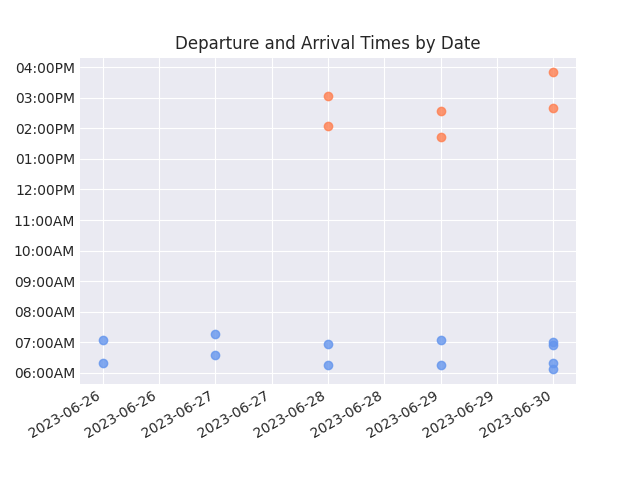
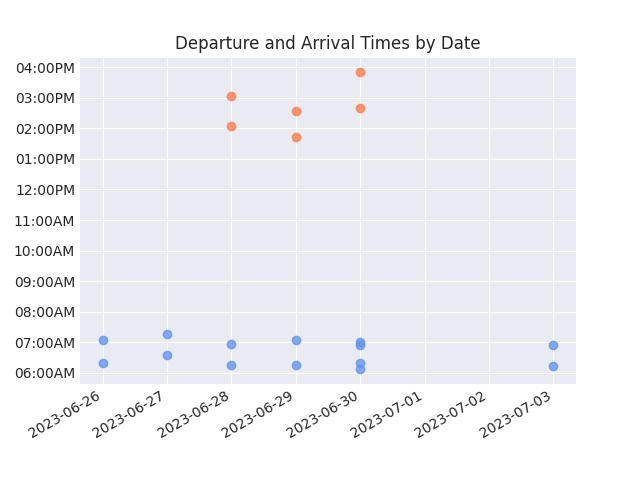
genGraph

diff --git a/tt-style.css b/tt-style.css
@@ -195,7 +195,7 @@ option {
     border-width: 4px;
     margin-bottom: 2em;
     overflow-y: scroll;
-    max-height: 70vh;
+    max-height: 65vh;
     transition: 0.3s ease;
 }
 

diff --git a/genGraph.py b/genGraph.py
@@ -1,0 +1,32 @@
+import matplotlib.pyplot as plt
+import matplotlib.dates as mdates
+import pandas as pd
+
+def generateGraph():
+    # ingest csv
+    df = pd.read_csv('/opt/jericho-flask/traveltime/traveltime.csv')
+    df['DATE_CONVERTED'] = pd.to_datetime(df['DATE'], format='%Y-%m-%d')
+    df['LEAVE_TIME_CONVERTED'] = pd.to_datetime(df['LEAVE_TIME'], format='%I:%M%p')
+    df['ARRIVE_TIME_CONVERTED'] = pd.to_datetime(df['ARRIVE_TIME'], format='%I:%M%p')
+
+
+    plt.style.use('seaborn-v0_8-darkgrid')
+    # to home = orange, to work = blue
+
+    df_to_work = df[df['DIRECTION'] == 'Work']
+    df_to_home = df[df['DIRECTION'] == 'Home']
+
+    plt.gca().xaxis.set_major_formatter(mdates.DateFormatter('%Y-%m-%d'))
+    plt.gca().yaxis.set_major_formatter(mdates.DateFormatter('%I:%M%p'))
+
+    plt.scatter(df_to_work['DATE_CONVERTED'], df_to_work['LEAVE_TIME_CONVERTED'], color='cornflowerblue', alpha=0.8)
+    plt.scatter(df_to_work['DATE_CONVERTED'], df_to_work['ARRIVE_TIME_CONVERTED'], color='cornflowerblue', alpha=0.8)
+
+    plt.scatter(df_to_home['DATE_CONVERTED'], df_to_home['LEAVE_TIME_CONVERTED'], color='coral', alpha=0.8)
+    plt.scatter(df_to_home['DATE_CONVERTED'], df_to_home['ARRIVE_TIME_CONVERTED'], color='coral', alpha=0.8)
+
+    plt.title('Departure and Arrival Times by Date')
+
+    plt.gcf().autofmt_xdate()
+    plt.savefig('/opt/jericho-flask/traveltime/charts/generated.png')
+    plt.clf()
